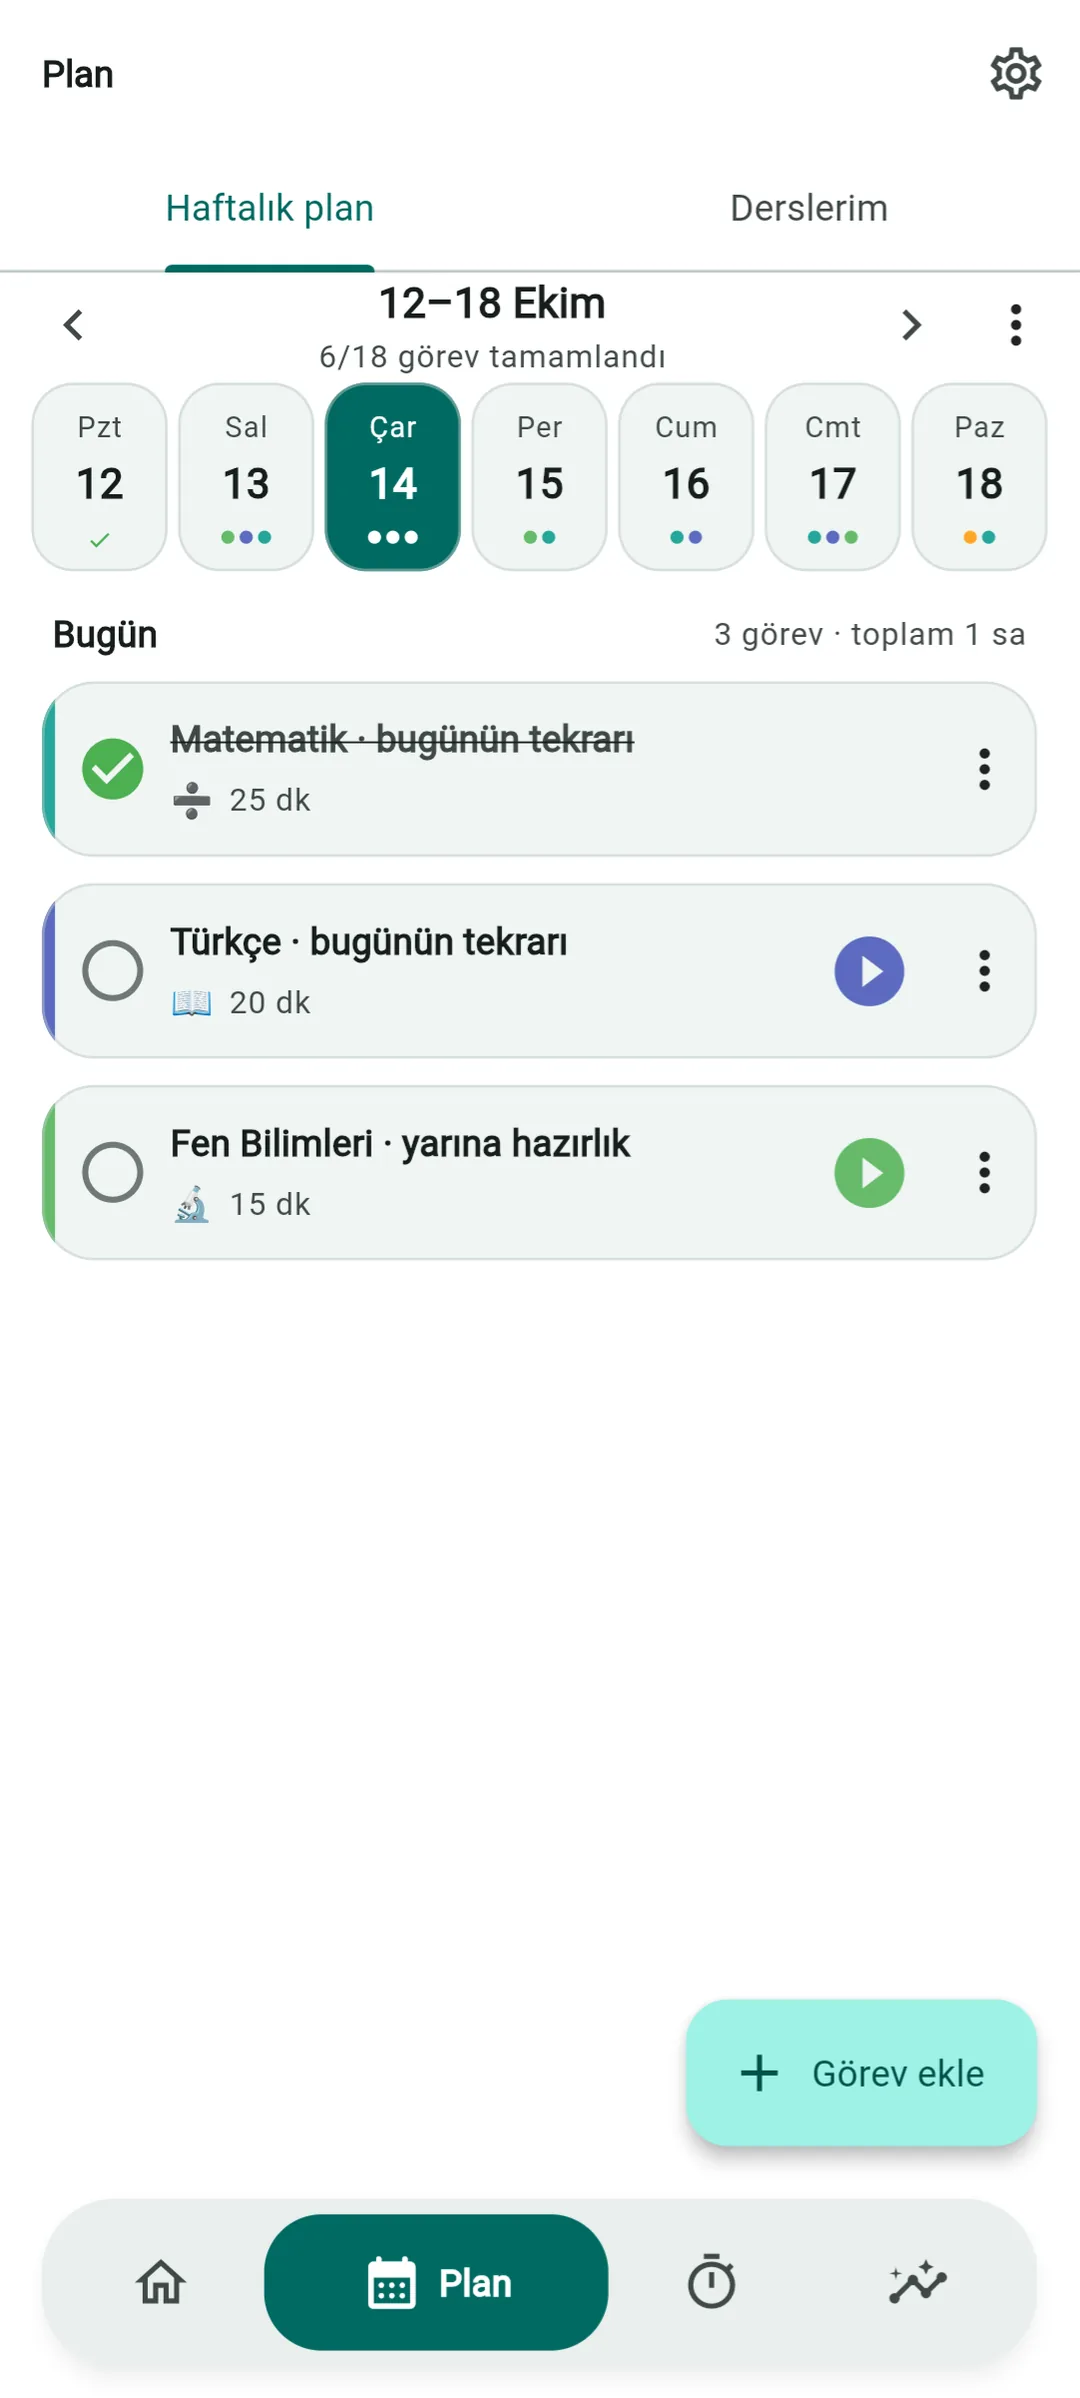
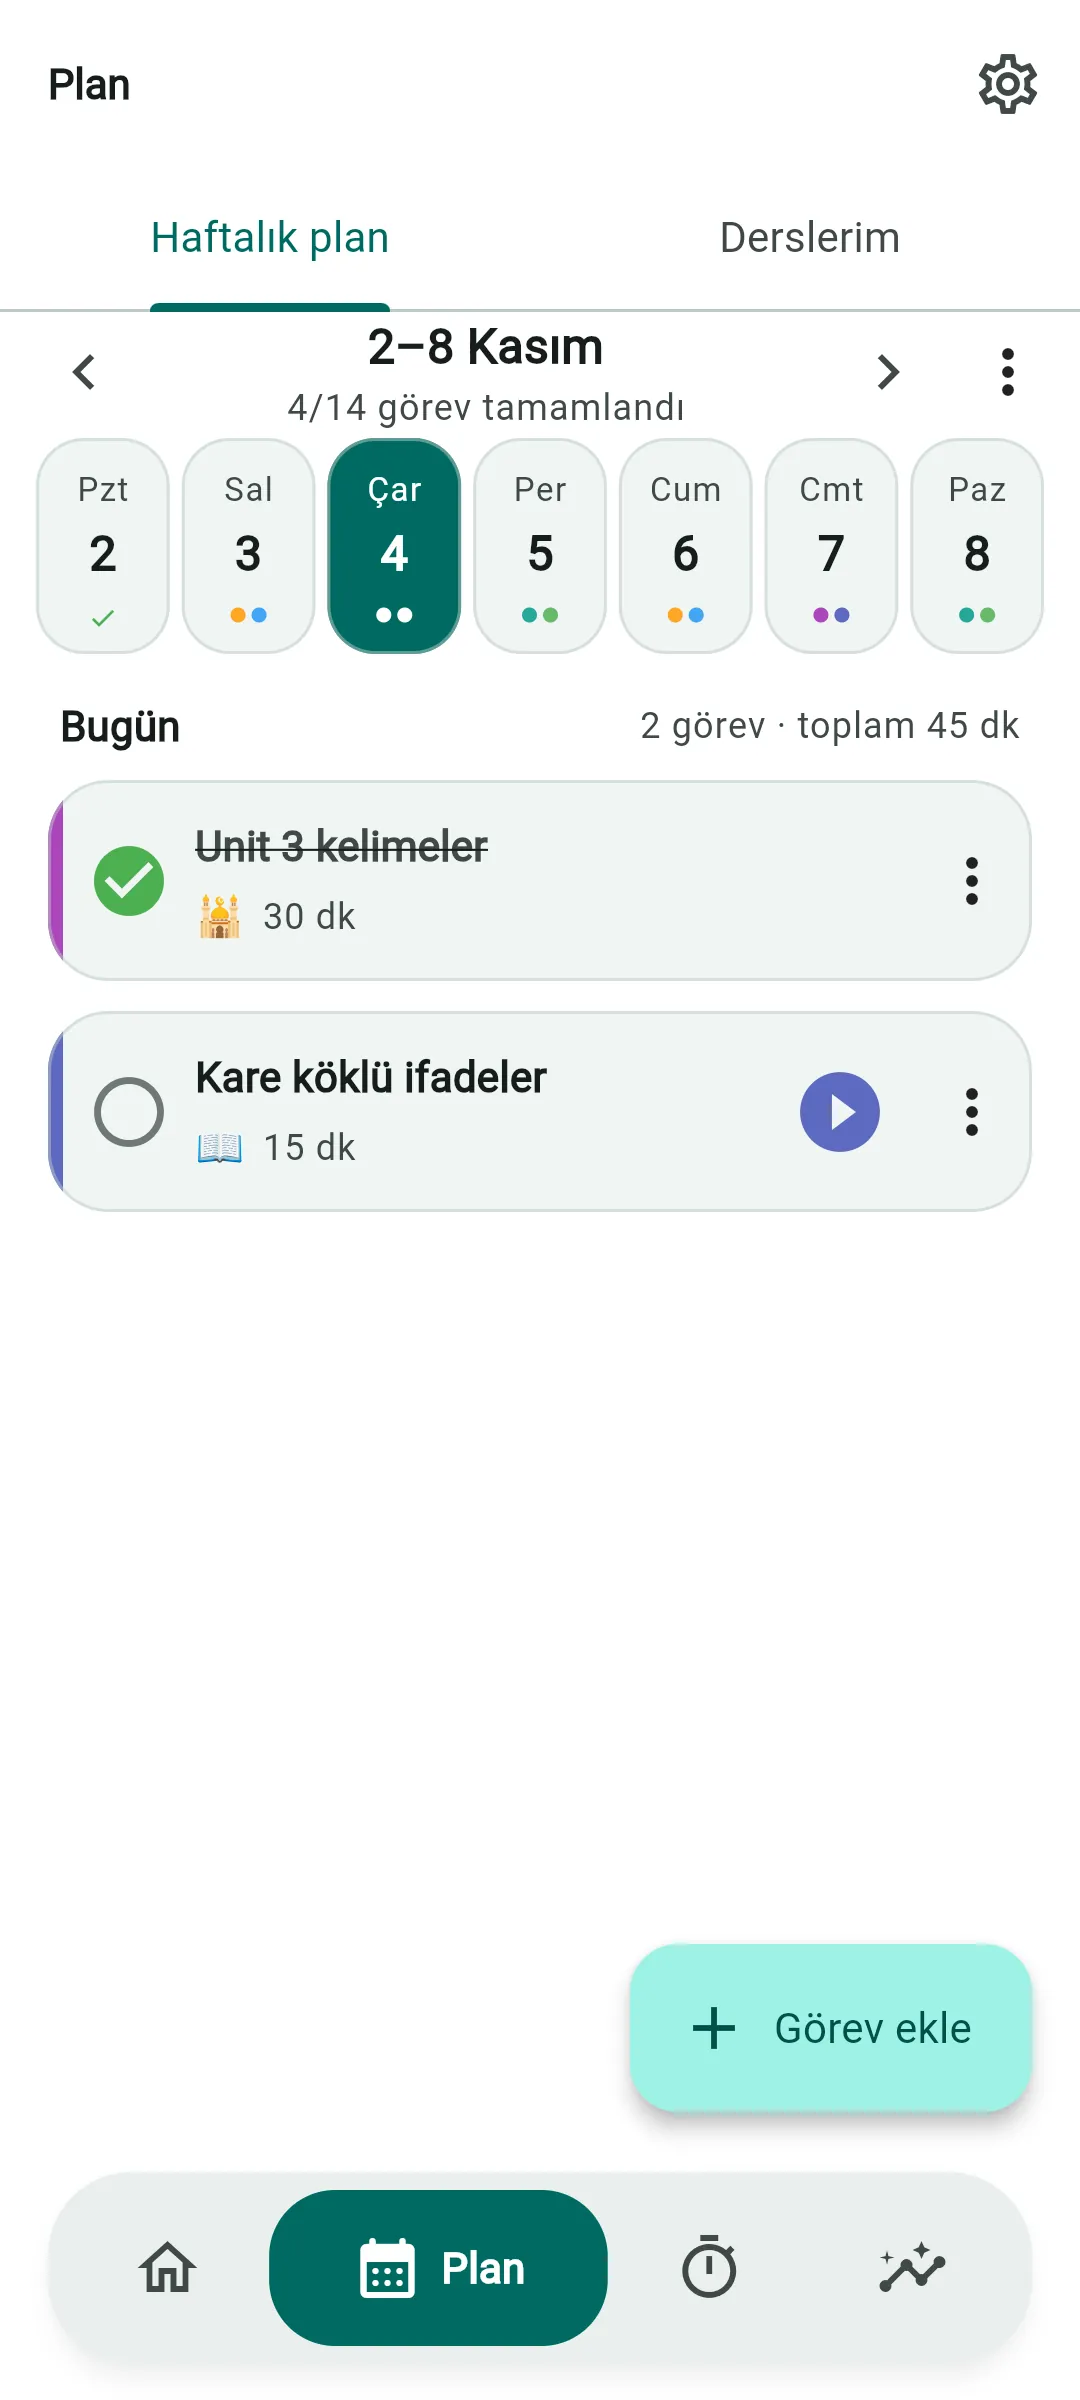
DersAsistanım gönderisi ve görselleri güncel sürüme göre yenilendi
Öğretmen ve veli hesapları, lise/YKS bölümü (sayaç, puan hesaplayıcı,
denemeler, konu takibi), koçluk programı, Supabase eşitleme ve KVKK
eklendi. 16 yeni ekran görüntüsü (1080x2400 WebP), 454 test.

diff --git a/javascript/index.js b/javascript/index.js
@@ -358,64 +358,82 @@ const projectData = {
         title: 'DersAsistanım: Maskotlu Ders Çalışma Asistanı',
         content: `
             <p>
-                <strong>DersAsistanım</strong>; ortaokul ve LGS öğrencilerinin ders çalışmayı planlamasına, takip etmesine
-                ve sürdürmesine yardım eden, maskotlu bir asistanı olan ve internetsiz çalışan bir web uygulamasıdır (PWA).
-                Telefonda "Ana ekrana ekle" ile uygulama gibi kurulur; hesap, sunucu ya da ücret gerektirmez.
+                <strong>DersAsistanım</strong>; ilkokul, ortaokul (LGS) ve lise (YKS) öğrencilerinin ders çalışmayı planlamasına,
+                takip etmesine ve sürdürmesine yardım eden, maskotlu bir asistanı olan web uygulamasıdır (PWA). Telefonda
+                "Ana ekrana ekle" ile uygulama gibi kurulur ve internetsiz çalışır. Öğrenci hesabının yanında öğretmen ve veli
+                hesapları da var; veri önce cihazda tutulur, hesapla buluta eşitlenir.
             </p>
 
             <div class="image-row">
-                <img src="görseller/dersAsistanim/01-ana-sayfa.webp" alt="DersAsistanım ana sayfa">
-                <img src="görseller/dersAsistanim/02-ana-sayfa-plan.webp" alt="DersAsistanım bugünün planı ve seri">
+                <img src="görseller/dersAsistanim/01-ana-sayfa.webp" alt="DersAsistanım ana sayfa ve maskot asistan">
+                <img src="görseller/dersAsistanim/02-ogretmenden.webp" alt="DersAsistanım öğretmenden duyuru, ödev ve günün özeti">
             </div>
 
             <h3>Problem</h3>
             <p>
                 Öğrenciler için ders çalışmanın en zor kısmı çoğu zaman başlamak ve devam ettirmek. Planlama uygulamaları
-                öğrenciden her şeyi kendisinin kurmasını bekliyor; bir süre sonra uygulama bırakılıyor. Amacım baskı kurmadan,
-                küçük adımlarla çalışmaya yönlendiren ve planı öğrencinin yerine hazırlayan bir asistan yapmaktı.
+                öğrenciden her şeyi kendisinin kurmasını bekliyor; bir süre sonra uygulama bırakılıyor. Öğretmen ve veli ise
+                öğrencinin evde ne kadar çalıştığını göremiyor. Amacım baskı kurmadan küçük adımlarla çalışmaya yönlendiren,
+                planı öğrencinin yerine hazırlayan ve öğretmenle veliyi aynı tabloya baktıran bir asistan yapmaktı.
             </p>
 
             <h3>Ürettiğim Çözüm</h3>
             <ul class="feature-list">
-                <li><strong>Maskot asistan:</strong> Günün durumuna (süren oturum, saat, ruh hali, bekleyen yanlışlar, plan) bakıp ne yapılacağını öneren kural tabanlı bir asistan. Hızlı mesajlar ve Türkçe serbest yazıyla konuşulabiliyor.</li>
-                <li><strong>Akıllı program:</strong> Öğrenci okul ders programını girer; uygulama o gün işlenen derslerin tekrarını, ertesi günün derslerine hazırlığı ve hafta sonu soru çözümünü haftaya kendisi yerleştirir.</li>
-                <li><strong>Çevrimdışı ve gizli:</strong> Tüm veri cihazda kalır; ilk açılıştan sonra internet gerekmez.</li>
+                <li><strong>Maskot asistan:</strong> Günün durumuna (süren oturum, saat, ruh hali, bekleyen yanlışlar, plan) bakıp ne yapılacağını öneren kural tabanlı bir asistan. Hızlı mesajlar ve Türkçe serbest yazıyla konuşulabiliyor; 8 maskot arasından seçiliyor.</li>
+                <li><strong>Akıllı program:</strong> Öğrenci okul ve koçluk ders programını tablo olarak girer; uygulama o gün işlenen derslerin tekrarını, ertesi günün derslerine hazırlığı ve hafta sonu soru çözümünü haftaya kendisi yerleştirir.</li>
+                <li><strong>Üç hesap türü:</strong> Öğrenci kendisi kaydolur; öğretmen hesabını okul yöneticisi yönetim panelinden açar; veli kendisi kaydolup çocuğunun 6 haneli koduyla bağlanır.</li>
+                <li><strong>Önce çevrimdışı, sonra bulut:</strong> Uygulama internetsiz çalışır; bağlantı gelince veri Supabase'e (PostgreSQL, satır düzeyi güvenlik) eşitlenir.</li>
             </ul>
 
             <div class="image-row">
-                <img src="görseller/dersAsistanim/04-derslerim.webp" alt="DersAsistanım Derslerim ve akıllı program">
-                <img src="görseller/dersAsistanim/05-ders-programi.webp" alt="DersAsistanım okul ders programı">
-                <img src="görseller/dersAsistanim/06-akilli-program.webp" alt="DersAsistanım akıllı program önizlemesi">
+                <img src="görseller/dersAsistanim/04-akilli-program.webp" alt="DersAsistanım akıllı program ve derslerim">
+                <img src="görseller/dersAsistanim/05-ders-programi.webp" alt="DersAsistanım okul ders programı tablosu">
+                <img src="görseller/dersAsistanim/03-haftalik-plan.webp" alt="DersAsistanım haftalık plan">
             </div>
 
             <h3>Öne Çıkan Özellikler</h3>
 
-            <p><strong>Haftalık plan ve hazır programlar:</strong> Tek dokunuşla tamamlama, erteleme ve hafifletme; LGS hazırlık, sayısal/sözel ağırlıklı gibi 9 hazır program.</p>
+            <p><strong>Kronometre, yanlış defteri ve gelişim:</strong> Hedef süreli çalışma oturumları; fotoğraflı yanlış sorular için 2 → 3 → 7 → 14 günlük aralıklı tekrar; haftalık süre, ders bazında dağılım ve 6 haftalık doğruluk grafikleri.</p>
             <div class="image-row">
-                <img src="görseller/dersAsistanim/03-haftalik-plan.webp" alt="DersAsistanım haftalık plan">
-                <img src="görseller/dersAsistanim/09-kronometre.webp" alt="DersAsistanım kronometre">
+                <img src="görseller/dersAsistanim/06-kronometre.webp" alt="DersAsistanım kronometre">
+                <img src="görseller/dersAsistanim/07-yanlis-defteri.webp" alt="DersAsistanım yanlış defteri">
+                <img src="görseller/dersAsistanim/08-gelisim.webp" alt="DersAsistanım gelişim grafikleri">
             </div>
 
-            <p><strong>Kronometre, yanlış defteri ve gelişim:</strong> Hedef süreli çalışma oturumları; yanlış sorular için 2 → 3 → 7 → 14 günlük aralıklı tekrar; haftalık süre ve 6 haftalık doğruluk grafikleri, LGS net hesabı.</p>
+            <p><strong>Lise ve YKS:</strong> Lise öğrencisinde arayüz değişir: YKS geri sayımı, TYT/AYT puan hesaplayıcı (alan seçimi ve OBP katkısıyla), deneme sınavı kaydı ve net gelişimi grafiği, ders ders TYT/AYT konu takibi.</p>
             <div class="image-row">
-                <img src="görseller/dersAsistanim/08-yanlis-defteri.webp" alt="DersAsistanım yanlış defteri">
-                <img src="görseller/dersAsistanim/07-gelisim.webp" alt="DersAsistanım gelişim grafikleri">
+                <img src="görseller/dersAsistanim/11-yks-sayaci.webp" alt="DersAsistanım YKS geri sayımı">
+                <img src="görseller/dersAsistanim/12-yks-puan.webp" alt="DersAsistanım YKS puan hesaplayıcı">
+            </div>
+            <div class="image-row">
+                <img src="görseller/dersAsistanim/13-denemeler.webp" alt="DersAsistanım denemelerim ve net gelişimi">
+                <img src="görseller/dersAsistanim/14-konu-takibi.webp" alt="DersAsistanım konu takibi">
             </div>
 
-            <p><strong>İlk açılış turu ve bildirimler:</strong> Gerçek ekran öğelerini vurgulayan 8 adımlık tanıtım turu; maskotun kendi sesiyle gönderdiği, uzun süre girilmeyince "Neredesin?" diye soran nazik hatırlatmalar.</p>
-            <img src="görseller/dersAsistanim/10-uygulama-turu.webp" alt="DersAsistanım uygulama turu">
+            <p><strong>Öğretmen ve veli:</strong> Öğretmen, koduyla bağlanan öğrencilerinin çalışmasını görür, ödev verir ve duyuru yapar. Veli, çocuğunun çalışmalarını, planını, yanlış defterini, ders programlarını ve ödevlerini salt okunur raporda izler. Bir öğrencinin aynı anda bir öğretmeni ve birden çok velisi olabilir.</p>
+            <div class="image-row">
+                <img src="görseller/dersAsistanim/15-ogretmen-paneli.webp" alt="DersAsistanım öğretmen paneli">
+                <img src="görseller/dersAsistanim/16-veli-raporu.webp" alt="DersAsistanım öğrenci raporu">
+            </div>
 
-            <p><strong>Güvenli güncelleme:</strong> Yeni sürüm arka planda iner, kullanıcı "Güncelle" deyince devreye girer. Kendine zarar verme ifadelerini algılayıp ders önerisini durduran bir güvenlik kuralı da var.</p>
+            <p><strong>Kişiselleştirme:</strong> 8 maskot ve ikisi koyu olmak üzere 10 renk teması; maskotun kendi sesiyle gönderdiği, uzun süre girilmeyince "Neredesin?" diye soran nazik hatırlatmalar.</p>
+            <div class="image-row">
+                <img src="görseller/dersAsistanim/09-maskot-tema.webp" alt="DersAsistanım maskot ve tema seçimi">
+                <img src="görseller/dersAsistanim/10-koyu-tema.webp" alt="DersAsistanım koyu tema">
+            </div>
+
+            <p><strong>Gizlilik ve güvenlik:</strong> Çocuk verisi işlendiği için KVKK aydınlatma metni, kayıtta zorunlu onay ve "Hesabımı ve verilerimi sil" akışı var. Kendine zarar verme ifadelerini algılayıp ders önerisini durduran bir güvenlik kuralı ve arka planda inip "Güncelle" denince devreye giren güvenli güncelleme de bulunuyor.</p>
 
             <h3>Kullanılan Teknolojiler</h3>
             <ul class="tech-list">
                 <li>Flutter Dart</li>
                 <li>PWA</li>
                 <li>Service Worker</li>
+                <li>Supabase (PostgreSQL, RLS)</li>
                 <li>IndexedDB (Sembast)</li>
                 <li>fl_chart</li>
                 <li>Vercel</li>
-                <li>315 otomatik test</li>
+                <li>454 otomatik test</li>
             </ul>
         `
     }

diff --git a/index.html b/index.html
@@ -103,20 +103,20 @@
 
                     <article class="feature project-card reveal" onclick="openProject('DersAsistanim')" role="button" tabindex="0">
                         <div class="feature-media">
-                            <img src="görseller/dersAsistanim/01-ana-sayfa.webp" alt="DersAsistanım ana sayfa ve maskot asistan" loading="lazy" width="1080" height="2398">
-                            <img src="görseller/dersAsistanim/06-akilli-program.webp" alt="DersAsistanım akıllı program" loading="lazy" width="1080" height="2398">
-                            <img src="görseller/dersAsistanim/09-kronometre.webp" alt="DersAsistanım kronometre" loading="lazy" width="1080" height="2398">
+                            <img src="görseller/dersAsistanim/01-ana-sayfa.webp" alt="DersAsistanım ana sayfa ve maskot asistan" loading="lazy" width="1080" height="2400">
+                            <img src="görseller/dersAsistanim/12-yks-puan.webp" alt="DersAsistanım YKS puan hesaplayıcı" loading="lazy" width="1080" height="2400">
+                            <img src="görseller/dersAsistanim/15-ogretmen-paneli.webp" alt="DersAsistanım öğretmen paneli" loading="lazy" width="1080" height="2400">
                         </div>
                         <div class="feature-body">
                             <div class="meta"><span class="year">2026</span><span class="type">Mobil Uygulama · PWA</span></div>
                             <h3>DersAsistanım</h3>
-                            <p>Ortaokul ve LGS öğrencileri için maskotlu, internetsiz çalışan ders çalışma asistanı.</p>
+                            <p>İlkokul, ortaokul (LGS) ve lise (YKS) öğrencileri için maskotlu ders çalışma asistanı; öğretmeni ve veliyi aynı uygulamada buluşturur.</p>
                             <ul>
-                                <li>Okul ders programına göre akıllı haftalık plan</li>
-                                <li>Kronometre, yanlış defteri ve aralıklı tekrar</li>
-                                <li>Çevrimdışı çalışma, maskot bildirimleri, 315 otomatik test</li>
+                                <li>Okul ve koçluk programına göre akıllı haftalık plan</li>
+                                <li>Lisede YKS sayacı, puan hesaplayıcı, deneme ve konu takibi</li>
+                                <li>Öğretmen ve veli hesapları, bulut eşitleme, KVKK uyumu</li>
                             </ul>
-                            <div class="tags"><span>Flutter</span><span>Dart</span><span>PWA</span><span>IndexedDB</span><span>Service Worker</span></div>
+                            <div class="tags"><span>Flutter</span><span>Dart</span><span>PWA</span><span>Supabase</span><span>PostgreSQL</span></div>
                             <span class="more">Detayları gör &rarr;</span>
                         </div>
                     </article>
